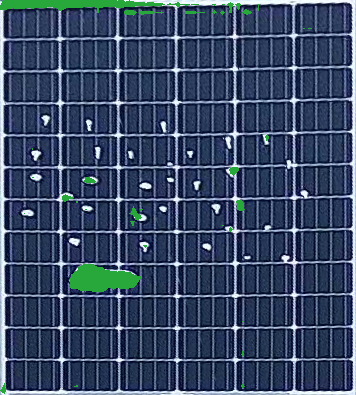
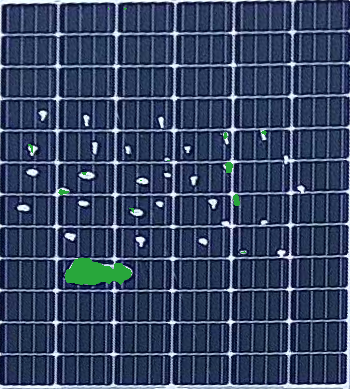
Feat : 패널 좌표설정 시 기존 위치 표시
- 패널 좌표설정에서 기존 위치를 표시해주는 기능 추가

related to : #110

diff --git a/cctv/templates/cctv/cctv_cropper.html b/cctv/templates/cctv/cctv_cropper.html
@@ -67,6 +67,14 @@
     let srcQuad = [[0,0],[0,0],[0,0],[0,0]]
     let srcQuadString = ""
 
+    
+    let locPoint = '{{loc}}'.replace(/[()]/g,"").split(',')
+    for(let i =0; i<4; i++){
+        for(let j =0; j<2; j++){
+            srcQuad[i][j] = Number(locPoint[i*2+j])
+        }
+    }
+
     function srcQuadtoString(){
         srcQuadString = ""
         for (var i = 0; i < srcQuad.length; i++) {
@@ -80,7 +88,7 @@
             url: "{% url 'cctv:cropper_preview' %}", // data를 전송할 url 입니다.
             data: {"pt" : srcQuadString}, 
             success: function (response) { // ajax 통신이 정상적으로 완료되었을 때
-                var time 	= new Date().getTime();	// 이미지 새로고침을 위한 랜덤 값
+                let time 	= new Date().getTime();	// 이미지 새로고침을 위한 랜덤 값
                 $('#cctvImage').attr('src', "/static/"+response.img_src +'?time=' + time)
                 $('#cctvImagePreiew').attr('src', "/static/"+response.crop_img_src+'?time=' + time)
                 

diff --git a/cctv/templates/cctv/cctv.html b/cctv/templates/cctv/cctv.html
@@ -212,9 +212,9 @@ $('#example').tempusDominus({
 				document.getElementById(`PanelCard_${i}`).classList.remove("border", "border-info")
 			}
 		}else{
+			let time 	= new Date().getTime();	// 이미지 새로고침을 위한 랜덤 값
 			document.getElementById(`PanelCard_${num}`).classList.add("border", "border-info")
-			cctvOriginalImage.src = `/static/cctv_images/11result_${num}.png`
-			
+			cctvOriginalImage.src = `/static/cctv_images/11result_${num}.png?time=${time}`
 		}
 
 	}

diff --git a/cctv/views.py b/cctv/views.py
@@ -96,64 +96,74 @@ class Screen(object):
         pass
 
     # 실시간연결
-    # def Origin(self,request):
-    #     try:
-    #         # frame단위로 이미지를 계속 송출한다.
-    #         return StreamingHttpResponse(self.cam.gen(), content_type="multipart/x-mixed-replace;boundary=frame")
-    #     except:
-    #         print("에러")
-    #         pass
+    """
+    def Origin(self,request):
+        try:
+            # frame단위로 이미지를 계속 송출한다.
+            return StreamingHttpResponse(self.cam.gen(), content_type="multipart/x-mixed-replace;boundary=frame")
+        except:
+            print("에러")
+            pass
 
-    # def SegFrame(self,request, pt):
-    #     try:
-    #         # frame단위로 이미지를 계속 송출한다
-    #         print("pt : ", pt)    
-    #         return StreamingHttpResponse(self.cam.gen(segmentation=True, pt=pt), content_type="multipart/x-mixed-replace;boundary=frame")
-    #     except:
-    #         print("에러")
-    #         pass
+    def SegFrame(self,request, pt):
+        try:
+            # frame단위로 이미지를 계속 송출한다
+            print("pt : ", pt)    
+            return StreamingHttpResponse(self.cam.gen(segmentation=True, pt=pt), content_type="multipart/x-mixed-replace;boundary=frame")
+        except:
+            print("에러")
+            pass
 
-    # def Score(self,request):
-    #     if request.is_ajax(): #ajax 방식일 때 아래 코드 실행
-    #         print("score ajax성공")
-    #         context = {'score' : self.cam.getScore()}
-    #         print("context :", context)
-    #         return HttpResponse(json.dumps(context), content_type='application/json')
-    #     else :
-    #         print('ajax 실패')
-    #         pass
+    def Score(self,request):
+        if request.is_ajax(): #ajax 방식일 때 아래 코드 실행
+            print("score ajax성공")
+            context = {'score' : self.cam.getScore()}
+            print("context :", context)
+            return HttpResponse(json.dumps(context), content_type='application/json')
+        else :
+            print('ajax 실패')
+            pass
+    """
 
     def setSegImage(self, num):
         pt = self.dics.getLoc(num)
+        time = str(datetime.now())
         
+        #cctv 이미지 읽어오기
         img_src ="cctv_images\PanelImageSample.jpg"
         basic_img_path = settings.BASE_DIR+ settings.STATIC_URL
         img_path = (basic_img_path+img_src).replace('\\','/')
         img = cv2.imread(img_path, cv2.IMREAD_COLOR)
+
+        #crop + seg 이미지 저장
         seg = self.segImage.getSeg(img=img, pt=pt)
         img_path = (basic_img_path+'cctv_images/11result_seg_'+str(num)+'.png').replace('\\','/')
         cv2.imwrite(img_path, seg["frame"])
+        self.dics.setSrc(num, "/static/"+img_path)
 
+        #원본이미지 위에 crop된 위치 표시해주는 이미지 저장
         np_pt = np.array(eval(pt), dtype = "float32")
         cv2.imwrite(basic_img_path +'cctv_images/11result_'+str(num)+'.png', self.Crop.drawROI(img,np_pt))
 
+        #각 패널의 오염면적 저장
         self.dics.setScore(num, seg["score"])
-
-        time = str(datetime.now())
-        print("Num loc : ", num, " \ ",self.dics.getLoc(num))
-        self.dics.setSrc(num, "/static/"+img_path +'?time=' + time)
+        
 
 class Cropper(object):
+
+    def __init__(self) -> None:
+        self.Crop = Crop()
+        self.dics = Dics()
+        pass
 
     def cropper(self, request, num):
         context = {
             'num': num,
+            'loc' : self.dics.getLoc(num)
         }
         return render(request, 'cctv/cctv_cropper.html', context)
 
     def CropPreView(self,request):
-        self.Crop = Crop()
-        self.dics = Dics()
         if request.is_ajax(): #ajax 방식일 때 아래 코드 실행
             img_src ="cctv_images\PanelImageSample.jpg"
             pt = request.GET.get("pt")
@@ -177,7 +187,6 @@ class Cropper(object):
             pass
     
     def CropLocSave(self,request):
-        self.dics = Dics()
         if request.is_ajax(): #ajax 방식일 때 아래 코드 실행
             print("crop ajax성공")
             print(request.GET.get("num"))
